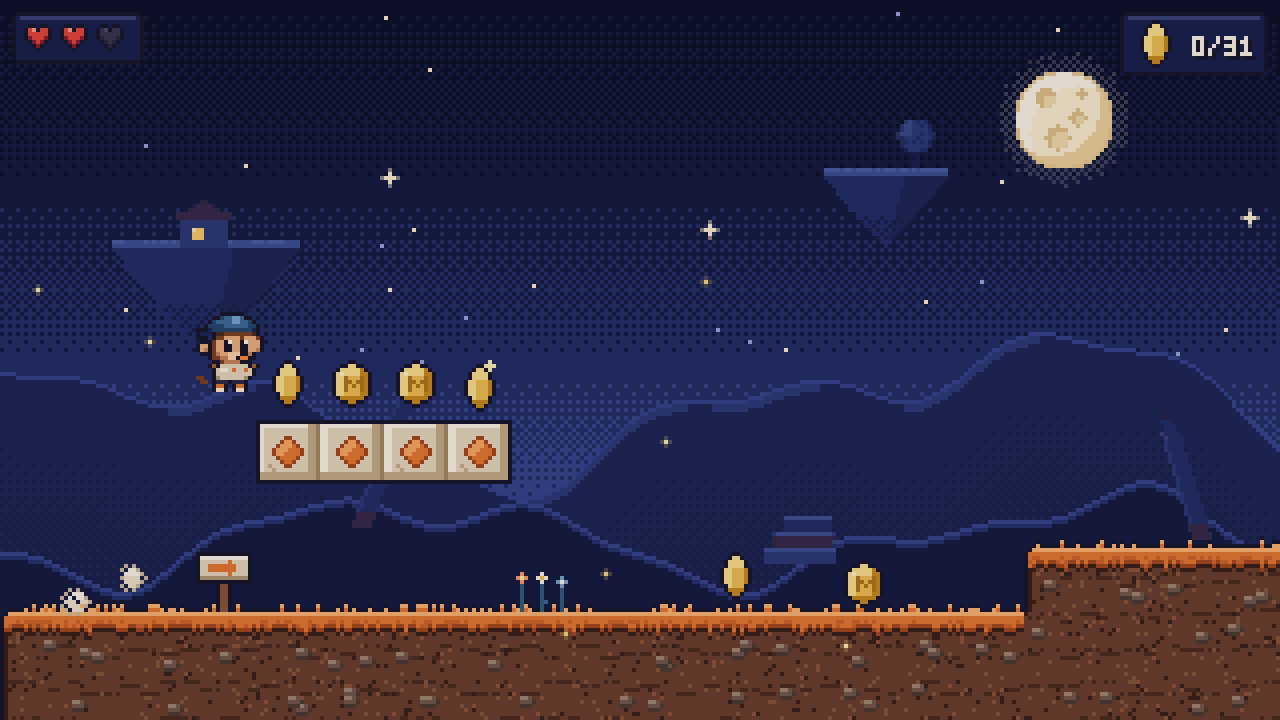
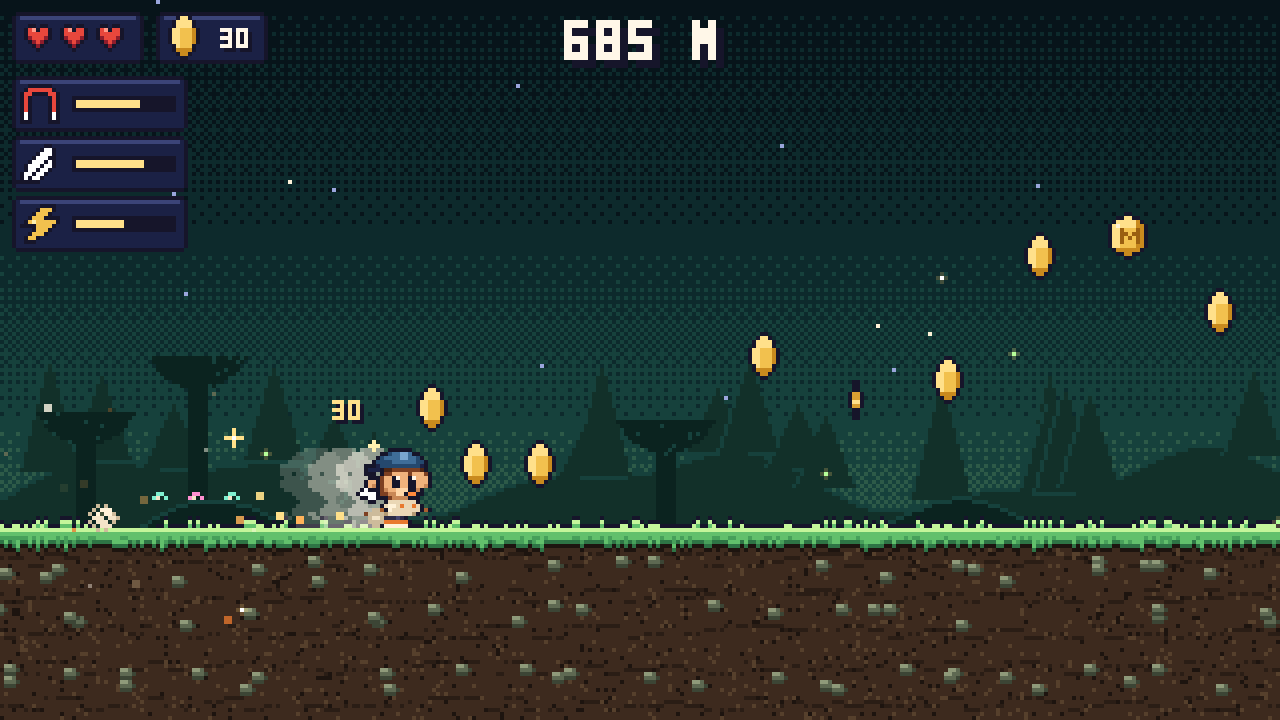
Monky Dreams 3.0: Carrera infinita, 4 mundos, poderes y pantalla completa
- Modo Carrera infinita: terreno generado por tramos y descartado al quedar
  atrás; cada tramo se valida con la física real (fisica.js), partiendo del
  estado exacto del anterior y con tolerancia de ±1,5 cuadros.
- Dificultad progresiva, 4 mundos (noche, bosque, digital, pesadilla) con
  transición y portal, enemigos terrestres, voladores y móviles, láseres y
  una sombra gigante perseguidora en la Pesadilla.
- Poderes: escudo, imán, doble salto e impulso, con duración en el HUD.
- Récord en localStorage, pantalla de fin, pausa y sonido.
- Pantalla completa real: resolución interna dinámica con escala entera,
  sin bandas negras; pantalla completa y orientación cuando el navegador lo
  permite; alternativa para iPhone (agregar a pantalla de inicio).
- Controles táctiles por zonas (saltar / deslizarse) que no tapan la acción.
- Modo Aventura conservado como segundo modo.
- Pruebas: pruebas/carrera.js (generación + recorrido encadenado).

Claude-Session: https://claude.ai/code/session_01L2nkRRQ2hVLWtpkmNm4fUv

diff --git a/Juegos/monky-dreams/js/carrera.js b/Juegos/monky-dreams/js/carrera.js
@@ -746,7 +746,8 @@ window.MonkyCarrera = function (deps) {
     if (sombra.alfa <= 0) return;
     const jx = jugador.x - cx;
     // Siempre asoma por la izquierda y se acerca a Monky cuando la distancia baja
-    const frente = Math.round(jx - 18 - sombra.distancia * 0.55);
+    // Siempre asoma (con sus ojos) y llega a Monky cuando la distancia es 0, en cualquier ancho de pantalla
+    const frente = Math.round(jx - 8 - (sombra.distancia / 150) * (jx - 40));
     const suelo = G.FILA_BASE * T - cy;
     ctx.globalAlpha = sombra.alfa;
     // Oscuridad que trae detrás
@@ -763,7 +764,7 @@ window.MonkyCarrera = function (deps) {
       ctx.fillRect(x, 0, 2, H);
     }
     const sprite = S.sombra[Math.floor(sombra.anim * 6) % 4].der;
-    ctx.drawImage(sprite, frente - 60, suelo - 90 + Math.round(Math.sin(sombra.anim * 2) * 2));
+    ctx.drawImage(sprite, frente - 54, suelo - 90 + Math.round(Math.sin(sombra.anim * 2) * 2));
     // Viñeta roja cuando está muy cerca
     if (sombra.distancia < 50 && Math.floor(tiempo * 4) % 2) {
       ctx.fillStyle = "rgba(255, 40, 70, 0.10)";

diff --git a/Juegos/monky-dreams/README.md b/Juegos/monky-dreams/README.md
@@ -1,11 +1,9 @@
 # Monky Dreams 🐒💤
 
-Videojuego de plataformas 2D en **pixel art de 16 bits** para **MoncadaArt**.
-Monky, la mascota que duerme en la portada del portafolio, sueña que entra a un mundo
-pixelado: corre, salta, reúne monedas y llega al despertador para despertar.
+Videojuego 2D en **pixel art** para **MoncadaArt**. Monky, la mascota que duerme en la portada
+del portafolio, sueña que corre por un mundo que se genera solo y nunca termina.
 
-> **Versión 2.0 — Fase 1 (pixel art).** Modo Aventura con arte, animaciones,
-> fondos y jugabilidad renovados. El modo **Carrera Infinita** se desarrollará en una fase posterior.
+> **Versión 3.0 — Carrera infinita.** Incluye también el modo **Aventura** de la versión 2.0.
 
 ## Dónde se juega
 
@@ -14,151 +12,130 @@ GitHub Pages publica MoncadaArt desde la rama `main` del repositorio `moncadaart
 - Apartado Juegos: <https://christianmon0108.github.io/moncadaart/juegos.html> → tarjeta **Monky Dreams** → **Jugar / Abrir proyecto →**
 - Juego directo: <https://christianmon0108.github.io/moncadaart/Juegos/monky-dreams/>
 
-El juego aparece en `juegos.html` gracias a `Juegos/manifest.json`; no se modificó ningún archivo del portafolio.
+### Respaldo de la versión anterior
+
+La versión 2.0 publicada se conserva en la rama **`claude/monky-dreams-v2-respaldo`**
+(y en el historial de `main`). Para recuperarla, basta con restaurar la carpeta
+`Juegos/monky-dreams/` desde esa rama.
 
 ---
 
-## Dirección artística
+## Modos de juego
 
-- **Resolución interna 320 × 180**, cuadrícula de **16 × 16**, escalado con píxeles nítidos
-  (`image-rendering: pixelated`, sin suavizado).
-- **Paleta:** azul noche, naranja MoncadaArt, dorado y crema, con rampas de 3-4 tonos por material.
-- **Monky (18 × 20 px):** gorra azul hacia atrás, ojos tipo cuenta, lengua naranja, sudadera crema
-  y tenis naranjas. Expresiones: normal, parpadeo, feliz, dolor y dormido.
-- **Animaciones:** respiración y parpadeo, carrera de 6 cuadros con rebote de cabeza, salto, caída,
-  golpe, festejo, estirar y aplastar al saltar y aterrizar, polvo al correr y al frenar.
-- **Escenario:** suelo con musgo naranja, briznas y piedritas; bloques biselados con rombo;
-  nubes esponjosas; cristales; letrero y flores.
-- **Fondo con parallax:** cielo con tramado ordenado, luna con cráteres y halo, montañas,
-  islas flotantes con una casita iluminada y una cascada, colinas con lápices y libros gigantes,
-  estrellas que titilan, estrellas fugaces y luciérnagas.
-- **Objetos:** monedas MoncadaArt con giro de 8 cuadros, almohada voladora con alitas,
-  lámpara de escritorio y despertador.
-- **Interfaz pixel:** logotipo dibujado en el lienzo, botones y marcos con esquinas recortadas
-  sobre la misma retícula del juego e íconos SVG pixel a pixel.
+### Carrera infinita (principal)
+
+- Monky corre solo hacia la derecha; tú controlas el **salto** (mantener = más alto) y el
+  **deslizamiento** (para pasar bajo techos bajos y enemigos a la altura de la cabeza).
+- El terreno se genera por **tramos** conforme avanzas y los tramos que quedan atrás se
+  descartan (en memoria nunca hay más de unos 6 tramos).
+- **Dificultad progresiva:** la velocidad sube de 118 a ~205 px/s; aparecen nuevos patrones
+  (nubes, vallas, techos bajos, voladores, combinaciones) y los huecos crecen, siempre dentro
+  de lo que el salto de Monky puede cruzar con margen.
+- **Cuatro mundos** que cambian cada 500 m con transición suave y un portal de sueño:
+  1. **Sueño nocturno** — luna, estrellas, montañas e islas flotantes.
+  2. **Bosque mágico** — musgo, hongos luminosos y plataformas de hongo.
+  3. **Mundo digital** — circuitos, torres de datos, lluvia de datos y láseres.
+  4. **Pesadilla** — sombras, niebla, ojos en la oscuridad y una **sombra gigante** que persigue a Monky.
+  Después vuelve a empezar con variaciones (por ejemplo, aurora en la noche).
+- **Enemigos:** bichos y hongos saltarines (se aplastan saltando encima), troncos rodantes,
+  polillas, drones, cuervos de sombra y láseres.
+- **Poderes** (con su tiempo en el HUD): **escudo** (10 s, protege de todo), **imán** (10 s, atrae
+  monedas), **doble salto** (12 s) e **impulso** (5 s: vuelo rasante que rompe obstáculos y cruza abismos).
+- **3 vidas.** Al caer a un abismo, una **burbuja de sueño** te lleva al siguiente suelo seguro.
+  En la Pesadilla, cada golpe acerca a la sombra; si te alcanza, termina la carrera.
+- **Récord personal** guardado en el navegador (`localStorage`): distancia y monedas.
+
+### Aventura
+
+El nivel "El primer sueño" de la versión 2.0: un nivel completo con monedas, lámpara de punto de
+control y el despertador como meta.
+
+---
+
+## Controles
+
+| Acción | Teclado | Celular (Carrera) | Celular (Aventura) |
+|---|---|---|---|
+| Saltar | `Espacio`, `↑`, `W`, `Z`, `K` | Tocar la **mitad derecha** | Botón de salto |
+| Deslizarse / caer rápido | `↓` o `S` | Mantener la **mitad izquierda** | — |
+| Moverse | (automático) | (automático) | Flechas ◀ ▶ |
+| Pausa · sonido · pantalla completa | `P` · `M` · `F` | Botones de arriba | Botones de arriba |
+
+## Pantalla completa en el celular
+
+- El juego **llena toda la pantalla** en cualquier proporción (16:9, 19.5:9, 4:3…): el área
+  visible crece en lugar de dejar bandas negras, y cada pixel del juego ocupa un número entero de
+  pixeles físicos (sin suavizado ni pixeles desparejos).
+- **Android y computadora:** al tocar *Carrera infinita* (o el botón ⛶) se pide pantalla completa
+  y, si el navegador lo permite, se fija la orientación horizontal.
+- **iPhone:** Safari no permite pantalla completa en páginas web. El juego usa todo el espacio
+  disponible y muestra la alternativa: **Compartir → Agregar a pantalla de inicio**, que abre el
+  juego como app a pantalla completa (`app.webmanifest`).
+- En vertical, el juego queda arriba con un aviso para girar el teléfono.
+
+---
 
 ## Cómo probarlo localmente
 
-Desde la raíz del repositorio:
-
 ```bash
 python3 -m http.server 8000
+# abrir http://localhost:8000/Juegos/monky-dreams/
 ```
-
-- Computadora: <http://localhost:8000/Juegos/monky-dreams/>
-- Celular (misma red Wi-Fi): `http://IP-DE-TU-COMPUTADORA:8000/Juegos/monky-dreams/`
-
-También funciona abriendo `Juegos/monky-dreams/index.html` con doble clic.
 
 | Parámetro | Para qué sirve |
 |---|---|
 | `?tactil` | Fuerza los controles táctiles en la computadora. |
-| `?depurar` | Herramientas de prueba en la consola: `MonkyDreams.depurar.teletransportar(columna, fila)` y `MonkyDreams.depurar.quitarVida()`. |
+| `?depurar` | Herramientas de prueba en la consola (`MonkyDreams.depurar` y `MonkyDreams.carrera`: piloto automático, saltar metros, activar poderes, turbo). |
 
-## Controles
+### Pruebas automáticas (Node)
 
-| Acción | Teclado | Celular |
-|---|---|---|
-| Moverse | `←` `→` o `A` `D` | Flechas ◀ ▶ (puedes deslizar el dedo entre ellas) |
-| Saltar (corto o largo) | `Espacio`, `↑`, `W`, `Z` o `K` | Botón de salto |
-| Pausa | `P` o `Esc` | Botón de pausa |
-| Sonido | `M` | Botón de sonido |
-| Pantalla completa | `F` | Botón de pantalla completa (si el navegador la permite) |
-| Empezar / reintentar | `Enter` | Botón en pantalla |
+```bash
+node Juegos/monky-dreams/pruebas/carrera.js 6000 10   # generador + recorrido encadenado
+node Juegos/monky-dreams/pruebas/alcance.js           # nivel del modo Aventura
+```
 
-### En el celular
-
-- **Horizontal (recomendado):** el juego queda al centro y los controles a los lados, sin tapar la acción.
-- **Vertical:** el juego queda arriba y los controles abajo.
-- **Pantalla completa:** en Android y en navegadores que la permiten aparece el botón ⛶,
-  que también intenta fijar la orientación horizontal.
-  En **iPhone** (Safari no permite pantalla completa en páginas web), toca **Compartir → Agregar a
-  pantalla de inicio**: el juego se abre como app a pantalla completa (`app.webmanifest`).
+`pruebas/carrera.js` genera kilómetros de terreno con varias semillas, revalida cada tramo con
+la física real (partiendo del estado exacto en que termina el anterior) y luego los recorre
+encadenados con un piloto que repite las decisiones del validador: si el validador y el juego
+coinciden, el piloto no recibe ningún golpe.
 
 ---
 
-## Modo Aventura
+## Cómo se garantiza que cada tramo sea superable
 
-- Nivel "El primer sueño" (138 × 12 casillas) en 7 zonas: inicio, nubes sobre el abismo,
-  pradera de bichos, escalera y cielo, almohada voladora, zona de la pesadilla y despertador.
-- 31 monedas, 3 vidas, lámpara de escritorio como punto de control.
-- Enemigos: **bichos** (*bugs*: se aplastan saltando encima) y una **pesadilla** flotante (hay que esquivarla).
-- Peligros: cristales y vacíos.
-- Pantallas de inicio, pausa, victoria (monedas, tiempo y vidas) y derrota.
-
-### Correcciones de jugabilidad de esta versión
-
-- La moneda sobre el hueco de la escalera, que provocaba caídas injustas, ahora está sobre la nube
-  de aterrizaje (antes, el 99 % de los intentos de tomarla terminaba en caída).
-- El escalón superior de la escalera es más ancho: subir corriendo ya no te lanza al hueco.
-- Ningún enemigo patrulla junto al punto de control.
-- La pesadilla y el bicho del final ya no se combinan en el mismo tramo.
-- La meta ocupa toda la columna del despertador: pasar por encima también cuenta.
-- Física más fluida: aceleración y frenado ajustados, giro rápido, gravedad suave en el punto
-  más alto del salto, *coyote time* y *jump buffer*.
-
----
+1. Cada tramo se arma con **patrones** (hueco, escalón, púas, nubes, valla, techo bajo, enemigo
+   terrestre, volador, láser…) cuyos tamaños dependen del alcance real del salto a la velocidad actual.
+2. Un **validador** (en `js/generador.js`) busca un recorrido sin daño usando `js/fisica.js`, la
+   misma física del juego: correr, saltos de 4 alturas y deslizamientos.
+3. Cada salto o deslizamiento del recorrido debe funcionar también **1,5 cuadros antes o después**:
+   ningún tramo exige precisión de cuadro exacto.
+4. Los enemigos se mueven según el avance de Monky, así se comportan igual en el validador y en el juego.
+5. Si un tramo no es superable se descarta; si ninguno sirve, se usa un tramo llano de respaldo.
+6. Las monedas se colocan sobre el recorrido encontrado: siempre guían un salto posible.
 
 ## Estructura
 
 ```
 Juegos/monky-dreams/
-├── index.html        Página del juego, pantallas e íconos pixel
-├── estilos.css       Interfaz pixel art y controles táctiles
-├── app.webmanifest   Para abrirlo a pantalla completa desde la pantalla de inicio
-├── README.md         Este archivo
-├── media/            Portada, capturas (tarjeta de juegos.html) e íconos
-├── pruebas/
-│   └── alcance.js    Prueba automática de alcance del nivel
+├── index.html        Página, menús e íconos pixel
+├── estilos.css       Interfaz pixel art, pantalla completa y controles táctiles
+├── app.webmanifest   Abrir a pantalla completa desde la pantalla de inicio
+├── media/            Portada, capturas e íconos
+├── pruebas/          alcance.js (Aventura) y carrera.js (Carrera infinita)
 └── js/
-    ├── fisica.js     Movimiento, salto y colisiones (compartido con las pruebas)
-    ├── sprites.js    Monky, enemigos, monedas y efectos en pixel art
-    ├── escenario.js  Casillas, decoraciones, fondo con parallax y almohada voladora
-    ├── nivel.js      Mapa del nivel en caracteres
-    ├── sonido.js     Efectos de sonido sintetizados (Web Audio)
-    └── juego.js      Motor: estados, cámara, enemigos, HUD e interfaz
+    ├── fisica.js     Física de Monky (plataformas y corredor), compartida con las pruebas
+    ├── generador.js  Tramos, mundos, dificultad y validador
+    ├── carrera.js    Modo Carrera infinita
+    ├── aventura.js   Modo Aventura
+    ├── sprites.js    Monky, enemigos, poderes, monedas y efectos
+    ├── escenario.js  Casillas y fondos con parallax de los 4 mundos
+    ├── hud.js        Texto pixel, logotipo y paneles
+    ├── pantalla.js   Resolución dinámica, pantalla completa y orientación
+    ├── entrada.js    Teclado y táctil
+    ├── nivel.js      Mapa del modo Aventura
+    ├── sonido.js     Efectos de sonido (Web Audio)
+    └── juego.js      Menú, modos, pausa, récord y bucle principal
 ```
 
-Sin dependencias ni compilación. El único recurso externo es la fuente **Pixelify Sans** (Google Fonts);
-si no carga, se usa una fuente monoespaciada del sistema.
-
-### Editar el nivel
-
-`js/nivel.js` es un dibujo de texto; cada carácter es una casilla de 16 × 16 px:
-
-```
-.  vacío              #  suelo               B  bloque sólido
--  nube (atravesable)  ^  cristales          ~  almohada voladora
-O  moneda             E  bicho               N  pesadilla
-L  lámpara            M  inicio de Monky     Z  despertador (meta)
-a  letrero            f  flores
-```
-
-Después de editarlo, comprueba que siga siendo justo:
-
-```bash
-node Juegos/monky-dreams/pruebas/alcance.js
-```
-
-La prueba usa la misma física del juego y verifica que la meta sea alcanzable, que todas las
-monedas se puedan tomar aterrizando a salvo, que ninguna moneda haga caer en más de la mitad de
-los intentos y que no haya pasillos demasiado bajos para Monky.
-
----
-
-## Lista de verificación manual
-
-- [ ] La portada muestra el logotipo pixel y a Monky dormido sobre la nube.
-- [ ] Monky corre, frena, salta (corto y largo) y aterriza con polvo y aplastamiento.
-- [ ] Las monedas giran y suman al contador con un destello y un "+1".
-- [ ] Pisar un bicho lo aplasta; tocarlo de lado, la pesadilla o los cristales quitan una vida.
-- [ ] Caer al vacío regresa a la lámpara encendida.
-- [ ] La almohada voladora transporta a Monky.
-- [ ] El despertador muestra **¡Monky despertó!**; al perder 3 vidas aparece **Fin del sueño**.
-- [ ] En el celular horizontal, los controles quedan a los lados sin tapar el juego.
-- [ ] El botón de pantalla completa aparece solo cuando el navegador lo permite.
-- [ ] **← Volver a MoncadaArt** regresa al apartado Juegos.
-
-## Próxima fase
-
-- **Carrera Infinita:** una pesadilla de sombras persigue a Monky (no incluida en esta versión).
+Sin dependencias ni compilación. El único recurso externo es la fuente **Pixelify Sans**
+(Google Fonts); si no carga, se usa una fuente monoespaciada del sistema.
